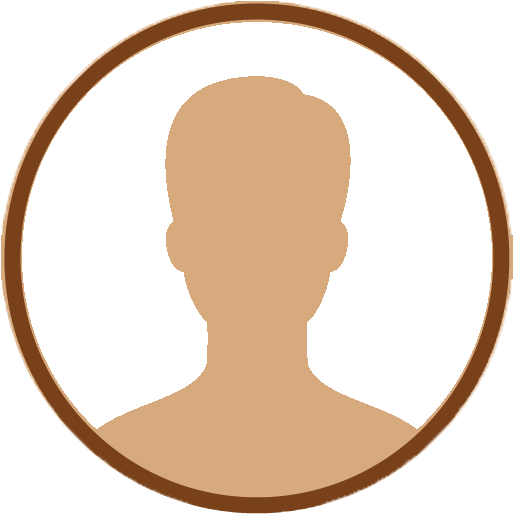
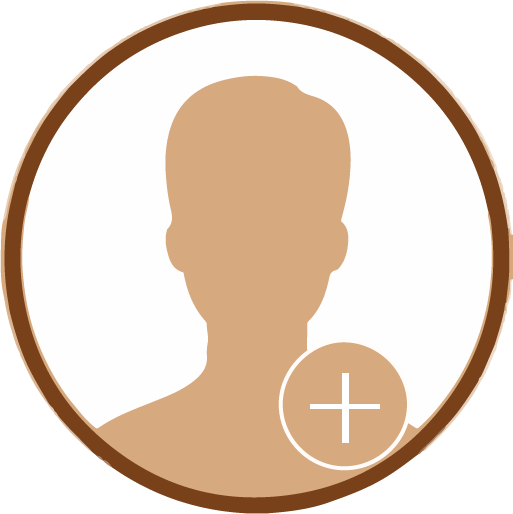
agregar foto usuario

diff --git a/AppUser/src/pages/registro/registro.ts b/AppUser/src/pages/registro/registro.ts
@@ -1,5 +1,6 @@
 import { Component } from "@angular/core";
 import { HomePage } from "../home/home";
+import { GLOBAL } from "../../app/services/global";
 import {
   NavController,
   AlertController,
@@ -19,6 +20,7 @@ export class RegistroPage {
   public user_register: User;
   public identity;
   public token;
+  public url;
   //objeto para la validacion del formulario
   miModelo: any;
   verificarPassword = "";
@@ -29,8 +31,10 @@ export class RegistroPage {
     public alertCtrl: AlertController,
     public loadingCtrl: LoadingController
   ) {
+    this.url2 = './';
+    this.url = GLOBAL.url;
     this.miModelo = {};
-    this.user_register = new User("", "", "", "", "", "", "", "", "");
+    this.user_register = new User("", "", "", "", "", "", "", "", "","");
   }
 
   public verificarContrasenas() {
@@ -57,6 +61,16 @@ export class RegistroPage {
         this.user_register.estado = "0";
         this._userService.register(this.user_register).subscribe(
           response => {
+            if (this.filesToUpload) {
+            
+              console.log("nombre de archivo" + this.filesToUpload[0].name);
+              this.makeFileRequest(this.url + 'upload-image-user/' + response.user._id, [], this.filesToUpload).then(
+    
+                (result: any) => {
+                  this.user_register.image = result.image;
+                }
+              );
+            }
             setTimeout(() => {
               this.showAlertCorrecto(
                 "El Usuario ha sido Registrado satisfactoriamente. Ingrese su correo y contraseña"
@@ -239,5 +253,50 @@ export class RegistroPage {
 
   goBack() {
     this.navCtrl.push(HomePage);
+  }
+
+  public url2;
+  public filesToUpload: Array<File>;
+
+  readUrl(event: any) {
+
+    this.filesToUpload = <Array<File>>event.target.files;
+
+    if (event.target.files && event.target.files[0]) {
+      var reader = new FileReader();
+
+      reader.onload = (event: any) => {
+        this.url2 = event.target.result;
+       
+      }
+
+      reader.readAsDataURL(event.target.files[0]);
+    }
+  }
+
+  makeFileRequest(url: string, params: Array<string>, files: Array<File>) {
+    // var token = this.tpken;
+    return new Promise(function (resolve, reject) {
+      var fromData: any = new FormData();
+      var xhr = new XMLHttpRequest();
+
+      for (var i = 0; i < files.length; i++) {
+        fromData.append('image', files[i], files[i].name)
+      }
+
+      xhr.onreadystatechange = function () {
+        if (xhr.readyState == 4) {
+          if (xhr.status == 200) {
+            resolve(JSON.parse(xhr.response));
+          } else {
+            reject(xhr.response);
+          }
+        }
+      }
+
+      xhr.open('POST', url, true);
+      // xhr.setRequestHeader('Authorization', token);
+      xhr.send(fromData);
+    });
   }
 }

diff --git a/api/controllers/user.js b/api/controllers/user.js
@@ -12,8 +12,64 @@ function pruebas(req, res) {
     });
 
 }
+function getImageFile(req, res) {
+    var imageFile = req.params.imageFile;
+    var path_file = './uploads/users/' + imageFile;
+    //console.log("este es el path" + path_file);
+    fs.exists(path_file, function (exists) {
+        if (exists) {
+            res.sendFile(path.resolve(path_file));
+        } else {
+            res.status(200).send({
+                message: 'No existe la imagen'
+            });
+        }
+    });
+
+}
+function uploadImage(req, res) {
+    var userId = req.params.id;
+    var file_name = 'No se ha subido ninguna Imagen';
+    
+    if (req.files) {
+        var file_path = req.files.image.path;
+        var file_split = file_path.split('\\');
+        var file_name = file_split[2];
+        var ext_split = file_name.split('\.');
+        var file_ext = ext_split[1];
+       //console.log(ext_split);
+          
+        if (file_ext == 'png' || file_ext == 'jpg' || file_ext == 'png' || file_ext == 'JPG') {
+            User.findByIdAndUpdate(userId, {
+                image: file_name
+            }, (err, userUpdated) => {
+                if (!userUpdated) {
+                    res.status(404).send({
+                        message: "La foto del usuario no se actualizado correctamente"
+                    });
+                } else {
+
+                    res.status(200).send({
+                        user: userUpdated,
+                        image: file_name
+                    });
+
+                }
+            });
+        } else {
+            res.status(200).send({
+                message: 'El formato de archivo no es valido '
+            });
+        }
 
 
+    } else {
+        res.status(200).send({
+            message: 'No ha subido niguna imagen'
+        });
+    }
+
+}
 function saveUser(req, res) {
     var user = new User();
     var params = req.body; // cuerpo de la peticion post de la direccion http por post
@@ -67,6 +123,7 @@ function saveUser(req, res) {
                                         });
                                     } else {
                                         res.status(200).send({
+                                            user: userStored,
                                             message: 'El Usuario se ha registrado correctamente'
                                         });
 
@@ -321,6 +378,7 @@ module.exports = { // para exportar todas las funcoones
     loginUser,
     pruebaServicio,
     updateUser,
-    getUsers
-    
+    getUsers,
+    uploadImage,
+    getImageFile
 };

diff --git a/api/routes/user.js b/api/routes/user.js
@@ -7,12 +7,16 @@ var md_auth = require('../middleware/authenticated');
 
 var api = express.Router(); // esto sirve para crear las rutas 
 
+var multipart = require('connect-multiparty');
+var md_upload = multipart({
+    uploadDir: './uploads/users'
+});
 api.get('/probando-controlador',UserController.pruebas); // esta direccion le indica que es loq ue va hacer
 api.post('/register',UserController.saveUser);
 api.post('/login',UserController.loginUser);
 api.put('/update-user/:id',md_auth.ensureAuth,UserController.updateUser);
 api.get('/allusers',md_auth.ensureAuth,UserController.getUsers); // esta direccion le indica que es loq ue va hacer
-
-
+api.post('/upload-image-user/:id', [md_upload], UserController.uploadImage);
+api.get('/get-image-user/:imageFile', UserController.getImageFile);
 
 module.exports =api;// exportamos el router de express para que las routas funcionen por todo el back end

diff --git a/AppUser/src/pages/registro/registro.html b/AppUser/src/pages/registro/registro.html
@@ -14,9 +14,15 @@
 
 
   <div class="Aligner-item Aligner-item--top"></div>
-  <img id="imganeTitulo" src="assets/imgs/tituloRegistro.png" style=" width:40%;">
+
+  
+  <label class=" form-control fileContainer" style="border: none; ">
+    <img id="imganeTitulo" [src]="url2" style="display: block; width: 40%; ">
+    <input type='file' id="nuestroinput" class="btn btn-primary" (change)="readUrl($event)" />
+    <p id="Titulo">Seria genial una foto con tus mascotas</p>
+  </label>
   <div class="Aligner-item Aligner-item--bottom"></div>
-  <br>
+
   <form #FormularioRegistro="ngForm" id="formRegistro">
     <div id="formRegister">
       <div style="top:0; bottom: 0;" class="item item-block">

diff --git a/api/index.js b/api/index.js
@@ -40,7 +40,7 @@ app.post('/api/createPayment', function (req, res) {
     console.log('iudViaje', req.body);
     app.globalTipoSolicitud = req.body.pagoDe;
     app.globalId = req.body.idViaje;
-    app.globalAmount = req.body.amount;
+    app.globalAmount = (Number(req.body.amount)+1.25);
     var create_payment_json = {
         "intent": "sale",
         "payer": {
@@ -90,7 +90,7 @@ app.get('/executePayment', function (req, res) {
         "transactions": [{
             "amount": {
                 "currency": "USD",
-                "total": '21.25' // app.globalAmount //'1'
+                "total": app.globalAmount //'1'
             }
         }]
     };

diff --git a/AppUser/src/pages/registro/registro.scss b/AppUser/src/pages/registro/registro.scss
@@ -19,3 +19,22 @@ input[placeholder] {
     color: #020202;
 }
 
+#nuestroinput
+{
+display: none
+}
+
+#Titulo{
+    text-align: center;
+   font-size: large;
+   font: small-caps 100%/200% cursive;
+    font-weight: bold;
+    display: block;
+    margin: 0 auto;
+    right: 0;
+    left: 0;
+    height: auto;
+    margin-top: 5%;
+    
+  }
+  

diff --git a/api/models/user.js b/api/models/user.js
@@ -16,7 +16,8 @@ var UserSchema = Schema({
     contrasena: String,
     tel_celular: String,
     tel_convencional: String,
-    estado: String
+    estado: String,
+    image: String,
 });
 
 module.exports = mongoose.model('User', UserSchema); //de esta forma al exportar se podra utilizar el 

diff --git a/AppUser/src/app/models/user.ts b/AppUser/src/app/models/user.ts
@@ -8,6 +8,7 @@ export class User {
         public contrasena: String,
         public tel_celular: String,
         public tel_convencional: String,
-        public estado: String
+        public estado: String,
+        public image: String
     ) { }
 }
